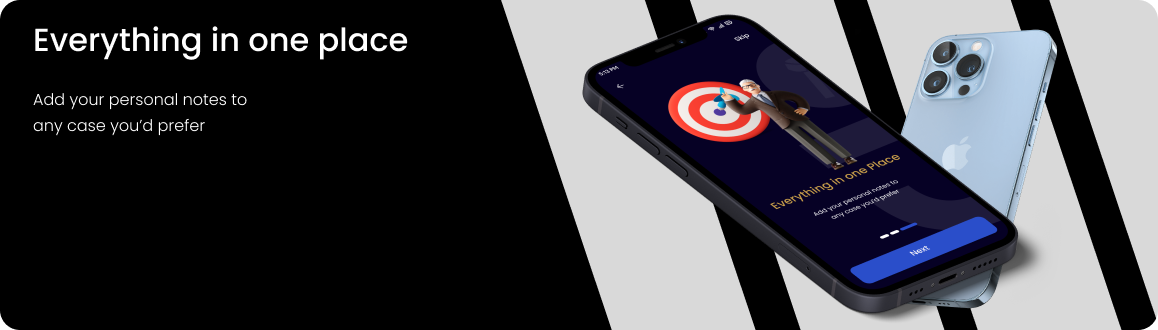
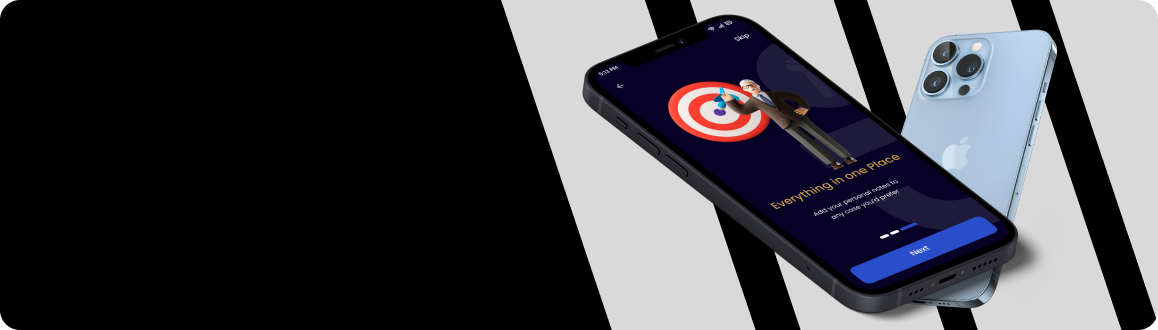
fixed Homepage(Hero2)

Changed region(s): [[0.0311, 0.0909, 0.3731, 0.1818], [0.0311, 0.2727, 0.2176, 0.3333], [0.0311, 0.3636, 0.1865, 0.3939]]

diff --git a/src/Components/Homepage/Hero2.jsx b/src/Components/Homepage/Hero2.jsx
@@ -31,14 +31,14 @@ const Hero2 = () => {
             alt="IMAGE1"
           />
           <div className="absolute overflow-visible top-0 left-9 right-0 bottom-0 flex flex-col gap-11 justify-between pt-[12px]">
-            {/* <div>
+            <div>
               <h1 className="text-[40px] font-semibold text-white mb-2">
                 Everything in one place
               </h1>
               <p className="max-w-[280px] text-[22px] text-white">
                 Add your personal notes to any case you'd prefer
               </p>
-            </div> */}
+            </div>
 
             <div className="flex flex-wrap gap-4 mb-4 sm:gap-8">
               <button className="px-4 sm:px-8 py-2 bg-blue-600 rounded-3xl">
